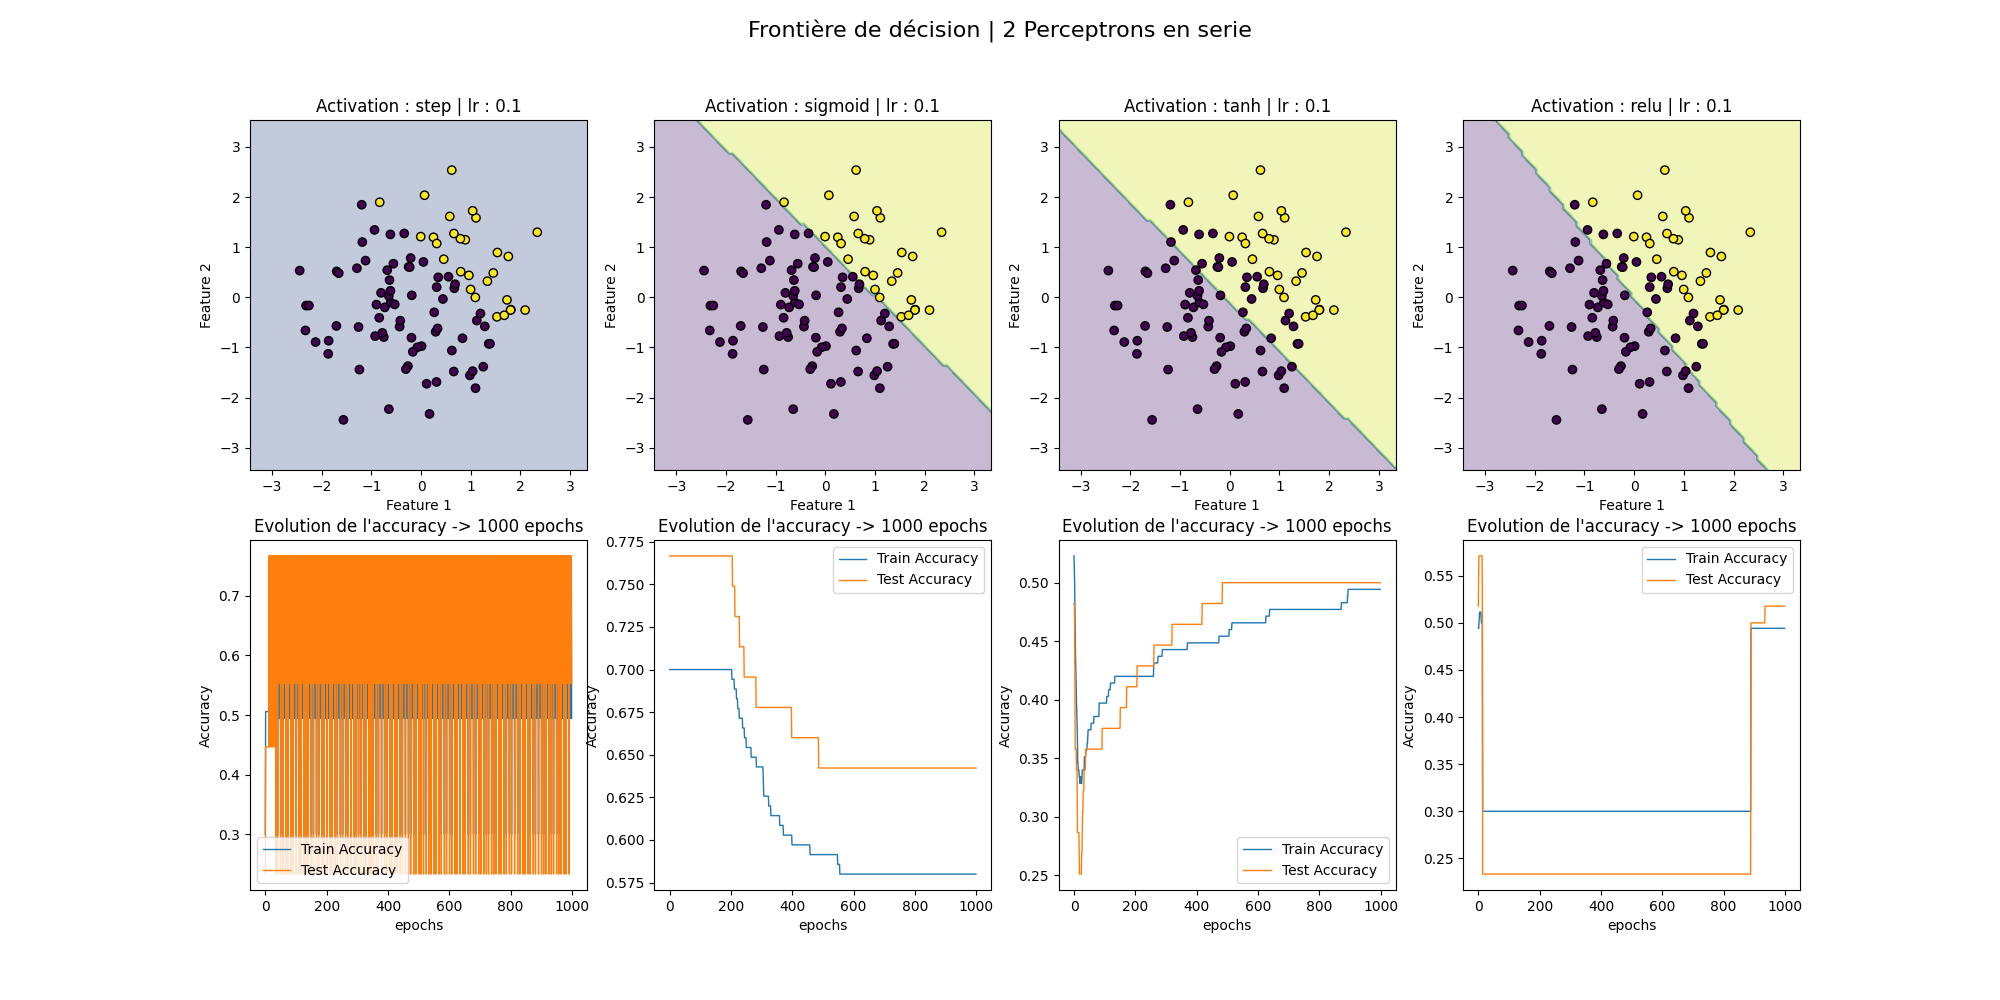
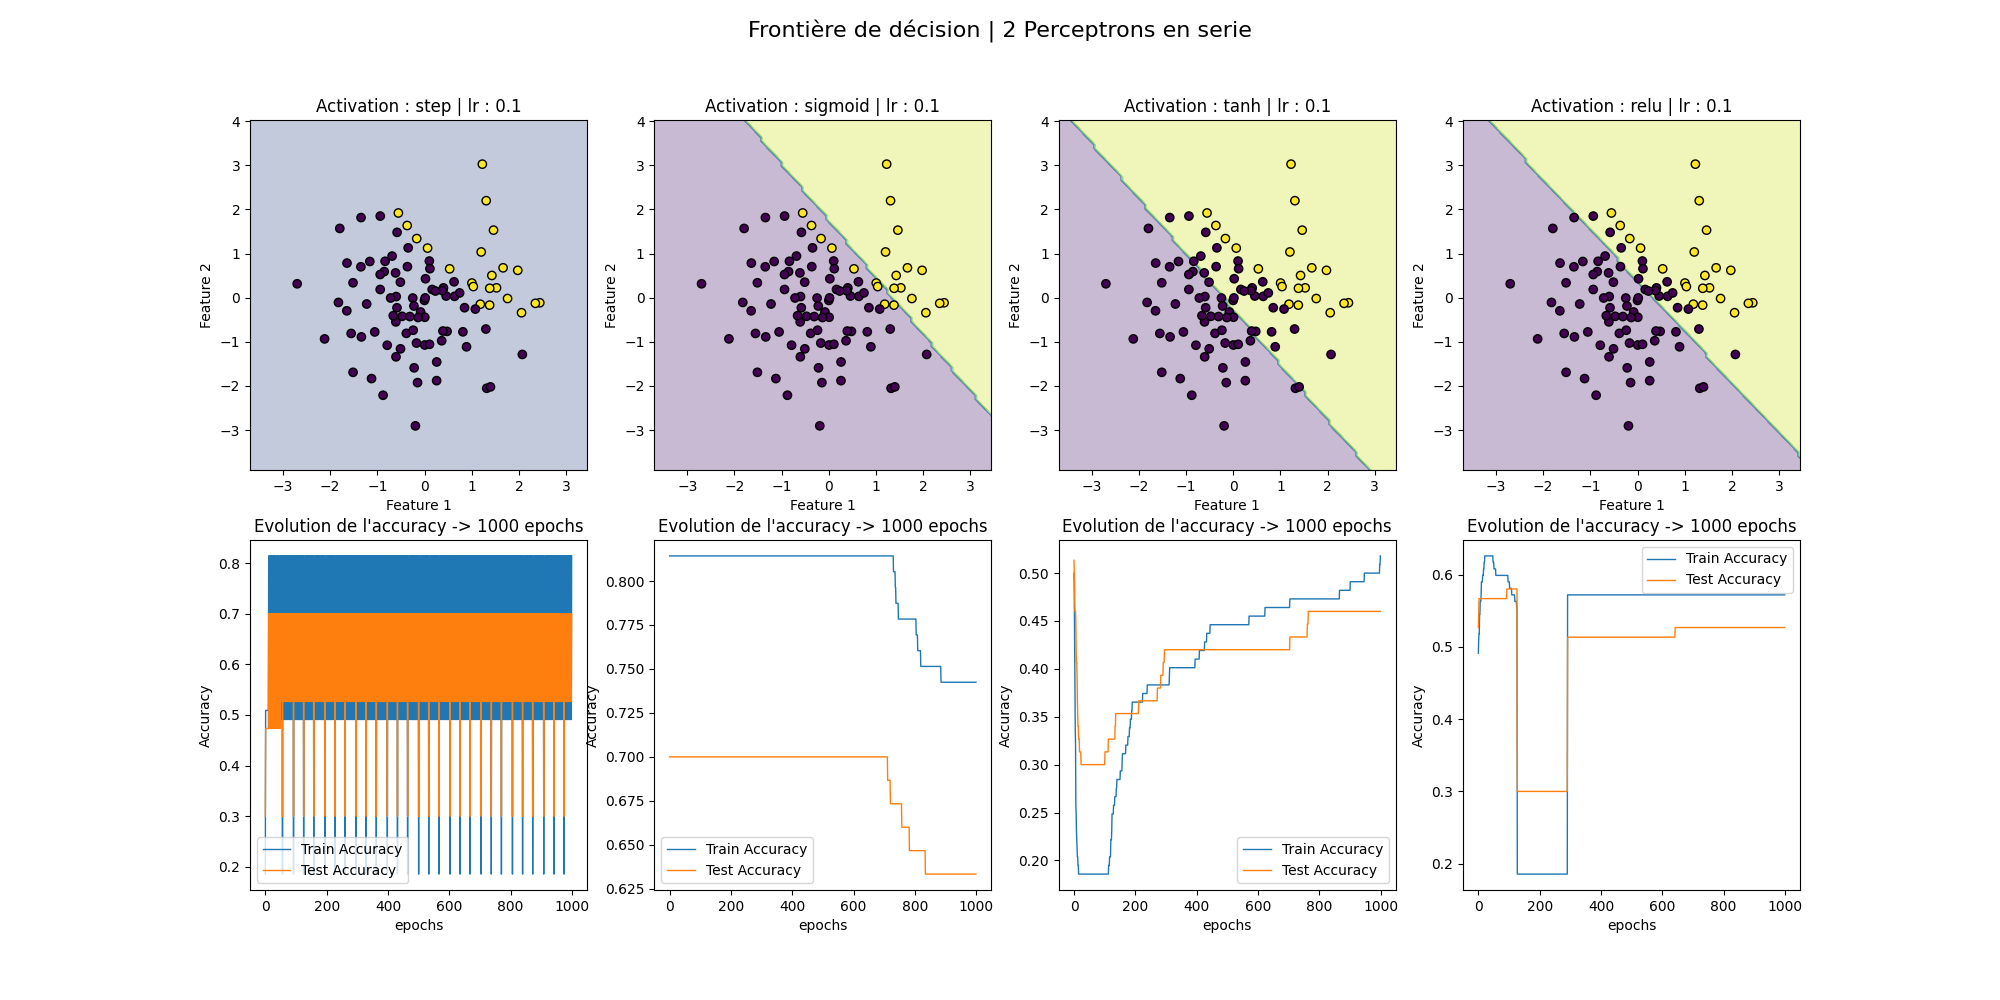
add rendu_6 x tensorflow

diff --git a/rendu_6/app.py b/rendu_6/app.py
@@ -1,0 +1,162 @@
+import numpy as np
+from sklearn.preprocessing import StandardScaler
+from sklearn.decomposition import PCA
+import matplotlib.pyplot as plt
+import utile.Perceptron as per
+from sklearn.datasets import load_iris
+from sklearn.model_selection import train_test_split
+import tensorflow as tf
+from tensorflow.keras.layers import Dense
+from tensorflow.keras.models import Sequential
+from tensorflow.keras.optimizers import Adam
+
+
+
+
+
+X = np.random.randn(100, 2)
+y = np.where(X[:, 1] + X[:, 0] > 1, 1, 0)
+#scaler = StandardScaler()
+#X = scaler.fit_transform(X)
+epochs = 500
+alpha = 0.01
+
+activations = ["step", "sigmoid", "tanh", "relu"]
+x_train, x_test, y_train, y_test = train_test_split(X, y, test_size=0.3, random_state=42)
+
+p_seul = per.Perceptron()
+
+fig, axs = plt.subplots(ncols=4, nrows=2, figsize=(20, 10))
+axs = axs.flatten()
+index = 0
+# Perceptron seul
+for a in activations:
+
+    accuracies, test_accuracies = p_seul.fit(x_train, y_train, epochs=epochs, activation=a, alpha=alpha, x_test=x_test, y_test=y_test)
+
+    w1, w2 = p_seul.W
+    b = p_seul.B
+
+    # Affichage graphe Frontiere de decision
+    x1_vals = np.array([X[:, 0].min() - 0.5, X[:, 0].max() + 0.5])
+    x2_vals = -(b + w1 * x1_vals) / w2
+
+    axs[index].scatter(X[y == 0, 0], X[y == 0, 1], color='blue', edgecolor='k', marker='o', s=50, label='Label 0')
+    axs[index].scatter(X[y == 1, 0], X[y == 1, 1], color='red', edgecolor='k', marker='^', s=50, label='Label 1')
+
+    axs[index].plot(x1_vals, x2_vals, 'k--', linewidth=2, label="Frontière de décision")
+    axs[index].set_xlabel("X1")
+    axs[index].set_ylabel("X2")
+    axs[index].legend()
+    axs[index].set_xlim([-3, 3]) 
+    axs[index].set_ylim([-3, 3])
+    axs[index].set_title(f"Activation : {a} | lr : {alpha}")
+
+    # Affichage graphe accuracy
+    axs[index+4].plot(range(len(accuracies)), accuracies, linestyle='-', linewidth=1, label="Train Accuracy")
+    axs[index+4].plot(range(len(test_accuracies)), test_accuracies, linestyle='-', linewidth=1, label="Test Accuracy")
+    axs[index+4].set_xlabel("epochs")
+    axs[index+4].set_ylabel("Accuracy")
+    axs[index+4].set_title(f"Evolution de l'accuracy -> {len(accuracies)} epochs")
+    axs[index+4].legend()
+
+    index += 1
+fig.suptitle("Frontière de décision du Perceptron", fontsize=16)
+plt.savefig("rendu_6/img/perceptron_simple_activations.png", format="png")
+plt.show()
+
+
+fig, axs = plt.subplots(ncols=3, nrows=2, figsize=(20, 10))
+axs = axs.flatten()
+index = 0
+activations = ["sigmoid", "tanh", "relu"]
+epochs = 100
+alpha = 0.01
+# Perceptron seul
+for a in activations:
+
+    model = Sequential([
+        Dense(1, activation=a, input_shape=(X.shape[1],)),
+        Dense(1, activation=a)
+    ])
+    optimizer = Adam(learning_rate=alpha)
+    model.compile(optimizer=optimizer, loss='binary_crossentropy', metrics=['accuracy'])
+
+    historique = model.fit(x_train, y_train, epochs=epochs, validation_data=(x_test, y_test))
+
+
+    x_min, x_max = X[:, 0].min() - 1, X[:, 0].max() + 1
+    y_min, y_max = X[:, 1].min() - 1, X[:, 1].max() + 1
+    xx, yy = np.meshgrid(np.linspace(x_min, x_max, 100), np.linspace(y_min, y_max, 100))
+    grid_points = np.c_[xx.ravel(), yy.ravel()]
+    Z = model.predict(grid_points)
+    
+    Z = Z.reshape(xx.shape)
+
+    # Affichage de la frontière de décision
+    axs[index].contourf(xx, yy, Z, alpha=0.3)  # Coloration des régions de décision
+    axs[index].scatter(X[:, 0], X[:, 1], c=y, edgecolor='k')  # Points de données réels
+    axs[index].set_xlabel("Feature 1")
+    axs[index].set_ylabel("Feature 2")
+    axs[index].set_title(f"Activation : {a} | lr : {alpha}")
+
+
+    # Affichage graphe accuracy
+    axs[index+3].plot(historique.history['accuracy'], label='Accuracy')
+    axs[index+3].set_title(f"Evolution de l'accuracy -> {epochs} epochs")
+    axs[index+3].set_xlabel("Epoch")
+    axs[index+3].set_ylabel("Accuracy")
+    axs[index+3].legend()
+
+    index += 1
+fig.suptitle("Frontière de décision du Perceptron", fontsize=16)
+plt.savefig("rendu_6/img/perceptron_simple_activations.png", format="png")
+plt.show()
+
+fig, axs = plt.subplots(ncols=3, nrows=2, figsize=(20, 10))
+axs = axs.flatten()
+index = 0
+activations = ["sigmoid", "tanh", "relu"]
+epochs = 100
+alpha = 0.01
+# Perceptron seul
+for a in activations:
+
+    model = Sequential([
+        Dense(2, activation=a, input_shape=(X.shape[1],)),
+        Dense(1, activation=a)
+    ])
+    optimizer = Adam(learning_rate=alpha)
+    model.compile(optimizer=optimizer, loss='binary_crossentropy', metrics=['accuracy'])
+
+    historique = model.fit(x_train, y_train, epochs=epochs, validation_data=(x_test, y_test))
+
+
+    x_min, x_max = X[:, 0].min() - 1, X[:, 0].max() + 1
+    y_min, y_max = X[:, 1].min() - 1, X[:, 1].max() + 1
+    xx, yy = np.meshgrid(np.linspace(x_min, x_max, 100), np.linspace(y_min, y_max, 100))
+    grid_points = np.c_[xx.ravel(), yy.ravel()]
+    Z = model.predict(grid_points)
+    
+    Z = Z.reshape(xx.shape)
+
+    # Affichage de la frontière de décision
+    axs[index].contourf(xx, yy, Z, alpha=0.3)  # Coloration des régions de décision
+    axs[index].scatter(X[:, 0], X[:, 1], c=y, edgecolor='k')  # Points de données réels
+    axs[index].set_xlabel("Feature 1")
+    axs[index].set_ylabel("Feature 2")
+    axs[index].set_title(f"Activation : {a} | lr : {alpha}")
+
+
+    # Affichage graphe accuracy
+    axs[index+3].plot(historique.history['accuracy'], label='Accuracy Train')
+    axs[index+3].plot(historique.history['val_accuracy'], label='Accuracy Test')
+    axs[index+3].set_title(f"Evolution de l'accuracy -> {epochs} epochs")
+    axs[index+3].set_xlabel("Epoch")
+    axs[index+3].set_ylabel("Accuracy")
+    axs[index+3].legend()
+
+    index += 1
+fig.suptitle("Frontière de décision du Perceptron", fontsize=16)
+plt.savefig("rendu_6/img/perceptron_simple_activations.png", format="png")
+plt.show()

diff --git a/rendu_6/utile/Perceptron.py b/rendu_6/utile/Perceptron.py
@@ -1,0 +1,79 @@
+import numpy as np
+import pandas as pd
+
+class Perceptron:
+
+    def __init__(self):
+        self.W = None
+        self.B = None
+        self.activation_functions = {
+            "step" : self.activation_step,
+            "sigmoid" : self.activation_sigmoid,
+            "tanh" : self.activation_tanh,
+            "relu" : self.activation_relu
+        }
+
+    def fit(self, X, y, alpha=0.01, epochs=1000, activation="step", x_test=None, y_test=None):
+        self.W = np.zeros(X.shape[1])
+        self.B = 0
+        accuracies = []
+        test_accuracies = []
+        activation_f = self.activation_functions[activation]
+        for i in range(epochs):
+            correct_predictions = 0
+            for xi, yi_true in zip(X, y):
+                yi_pred = activation_f(xi @ self.W + self.B)
+                self.W += alpha * (yi_true - yi_pred) * xi
+                self.B += alpha * (yi_true - yi_pred)
+                if activation == "sigmoid":
+                    if (yi_pred >= 0.5).astype(int) == yi_true:
+                        correct_predictions += 1
+                elif activation == "tanh":
+                    if (yi_pred >= 0).astype(int) == yi_true:
+                        correct_predictions += 1
+                elif activation == "relu":
+                    if (yi_pred > 0).astype(int) == yi_true:
+                        correct_predictions += 1
+                else:
+                    if yi_true == yi_pred:
+                        correct_predictions += 1
+            accuracy = correct_predictions / len(X)
+            accuracies.append(accuracy)
+            if (x_test is not None and y_test is not None):
+                y_test_pred = self.predict(x_test, activation=activation)
+                test_accuracies.append(np.mean(y_test_pred == y_test))
+            if (accuracy >= 0.999):
+                break
+        if x_test is not None and y_test is not None:
+            return accuracies, test_accuracies
+        return accuracies
+        
+    def predict(self, X, activation="step"):
+        activation_f = self.activation_functions[activation]
+        output = activation_f(X @ self.W + self.B)
+        
+        if activation == "sigmoid":
+            return (output >= 0.5).astype(int)
+        elif activation == "tanh":
+            return (output >= 0).astype(int)
+        elif activation == "relu":
+            return (output > 0).astype(int)
+        
+        return output
+
+    
+    def predict_proba(self, X):
+        return self.activation_sigmoid(X @ self.W + self.B)
+    
+    def activation_step(self, z):
+        return np.where(z >= 0, 1, 0)
+    
+    def activation_sigmoid(self, z):
+        z = np.clip(z, -600, 600)
+        return 1 / (1 + np.exp(-z))
+    
+    def activation_tanh(self, z):
+        return np.tanh(z)
+    
+    def activation_relu(self, z):
+        return np.maximum(0, z)
